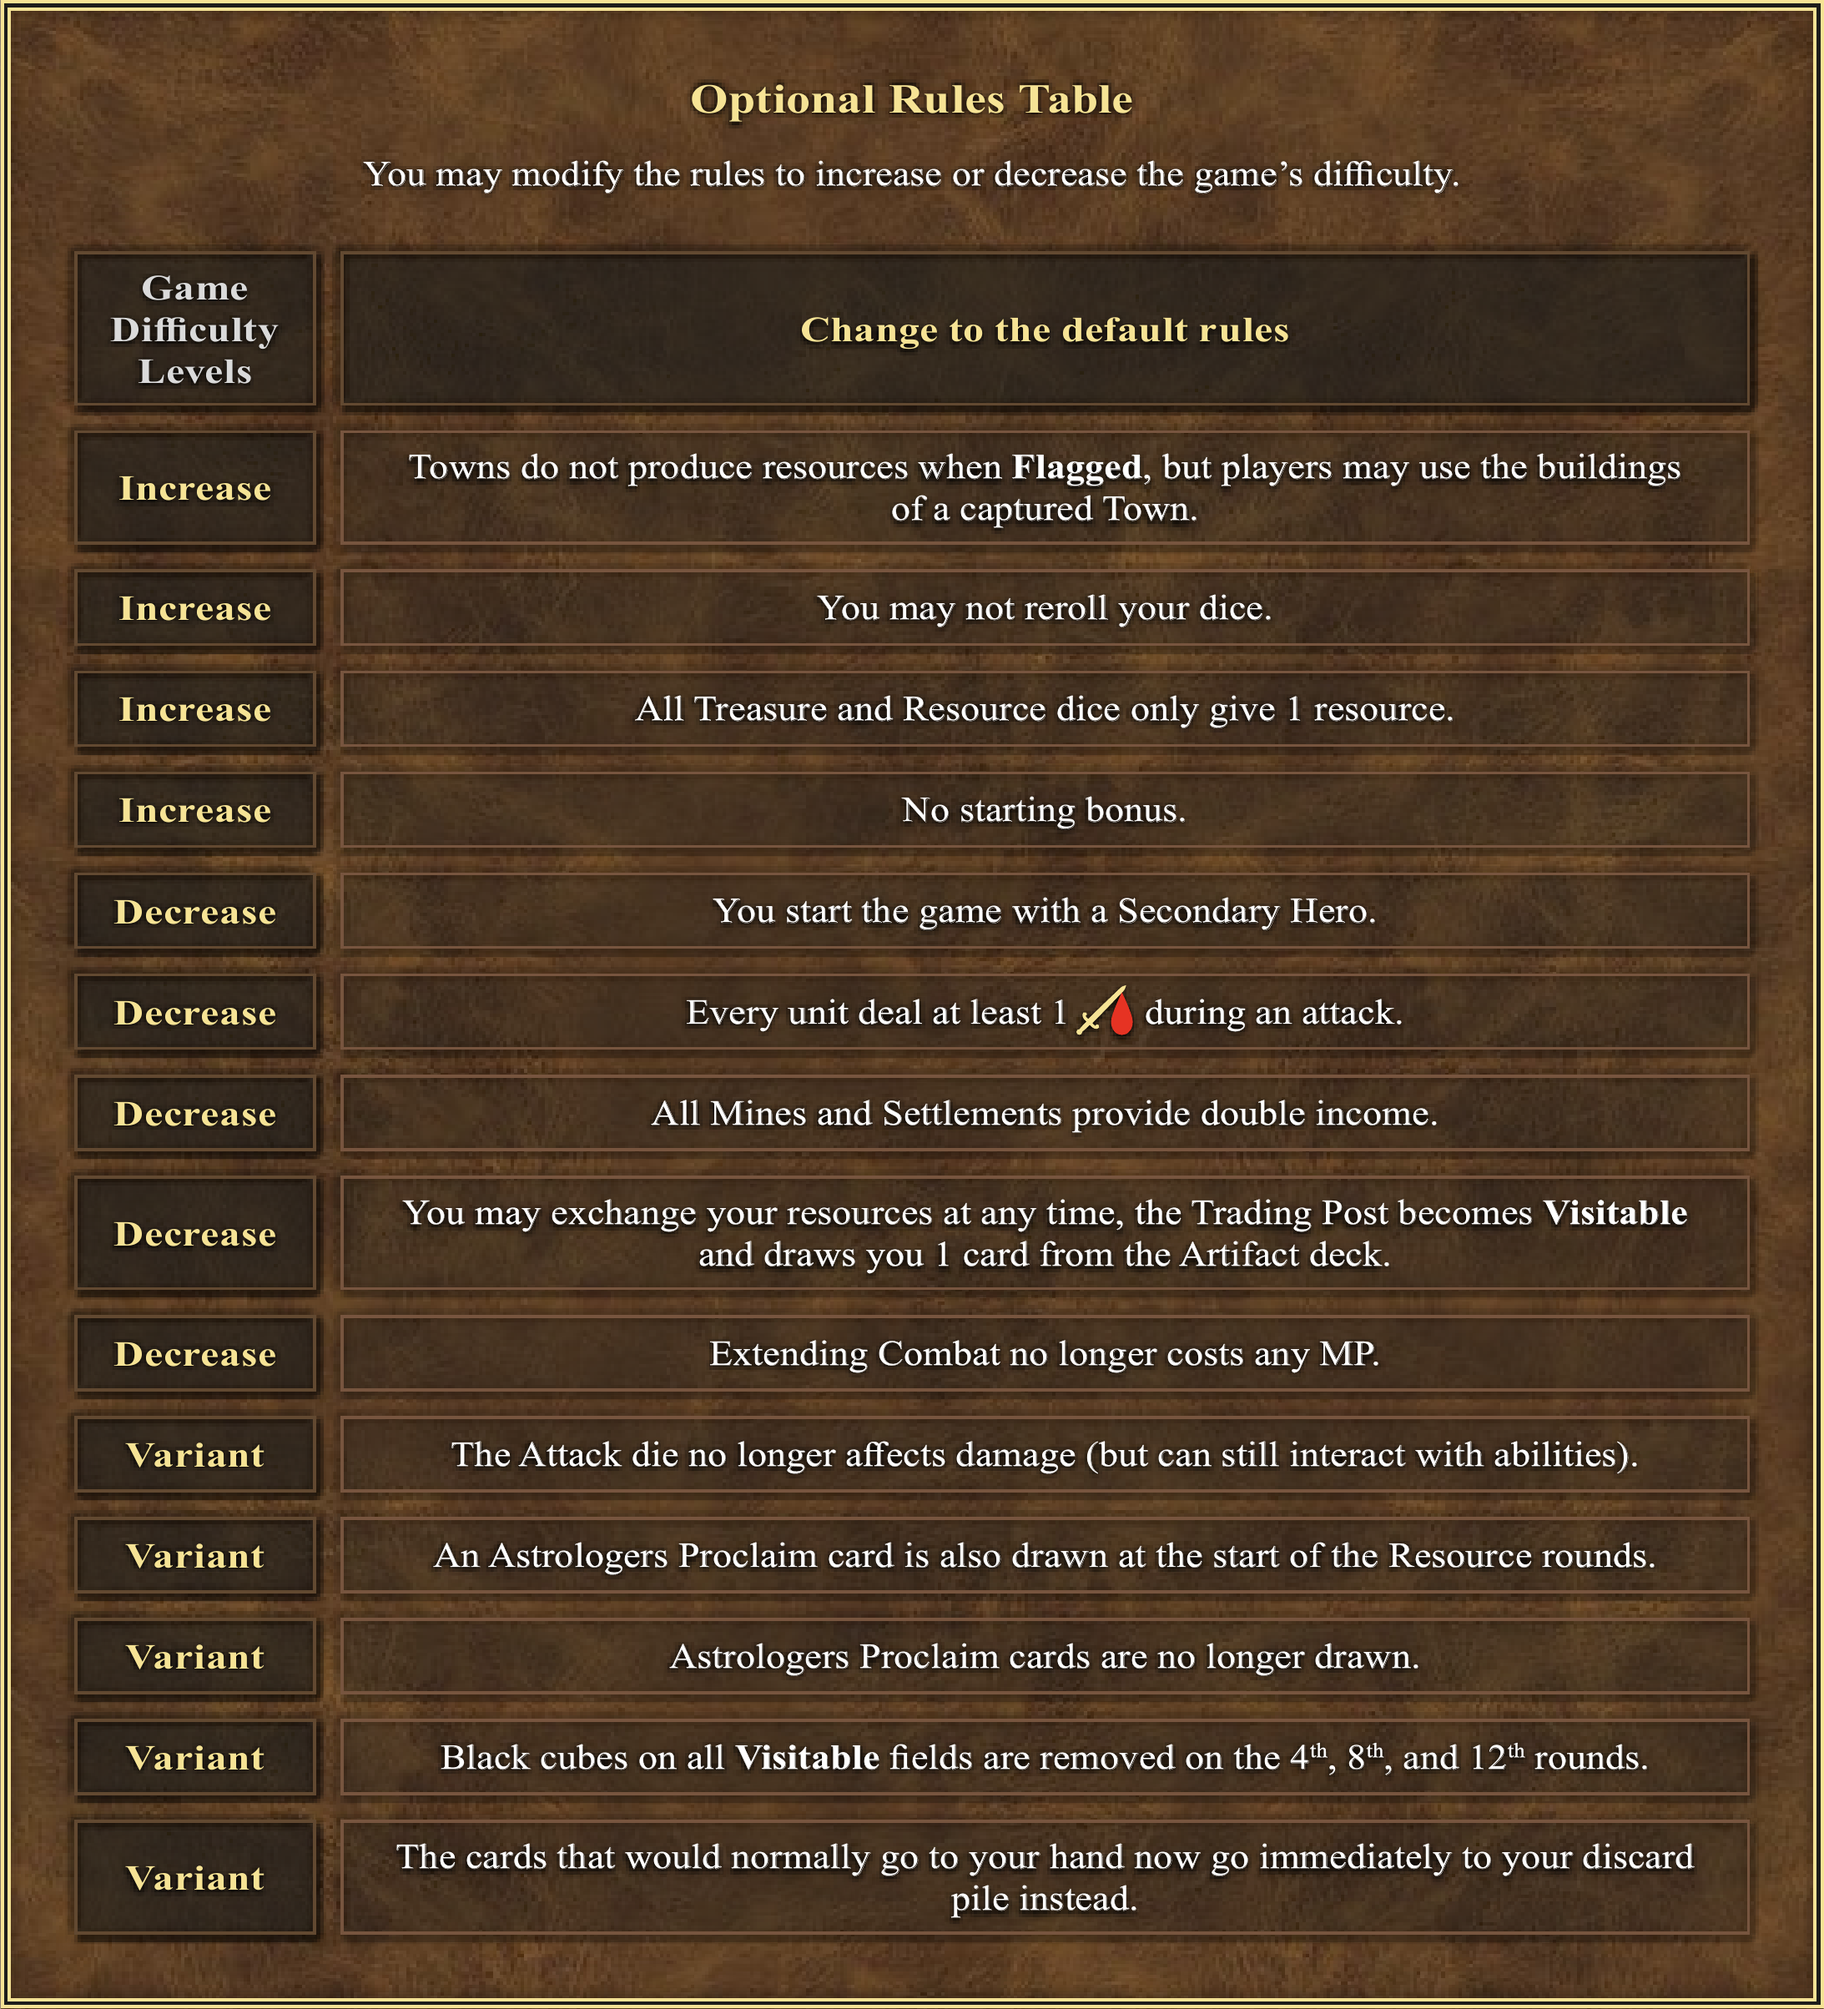
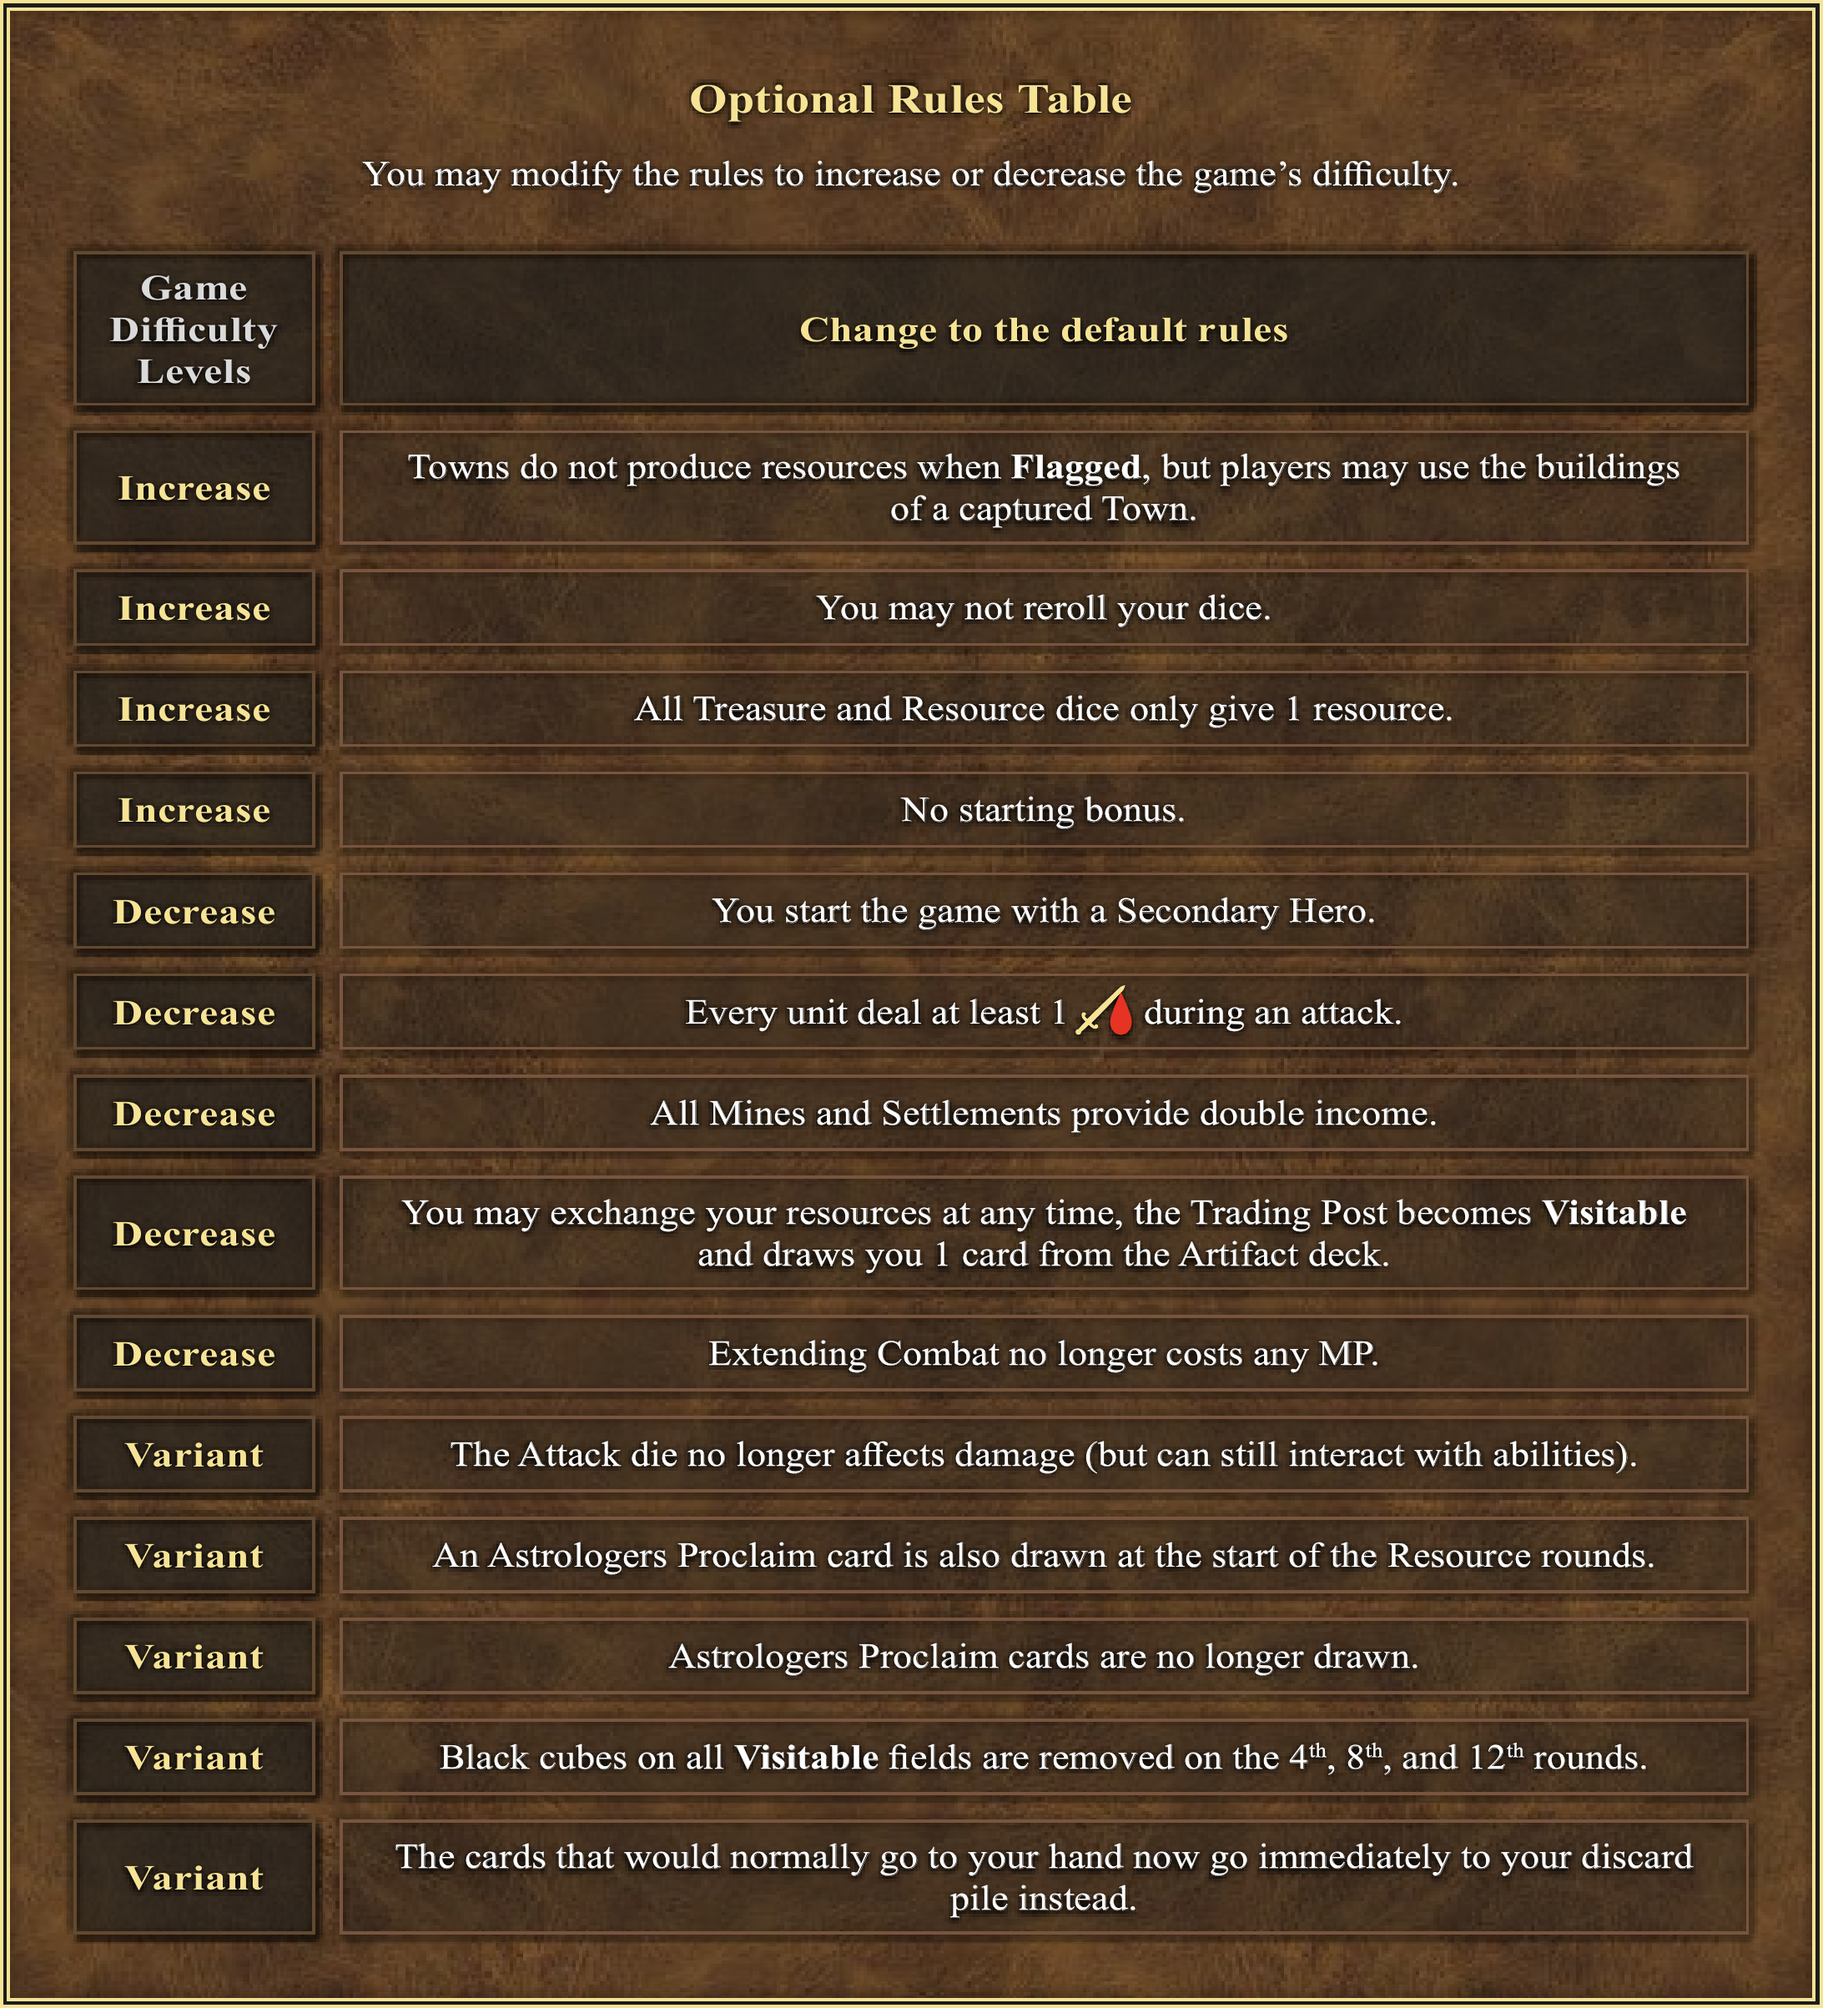
fix frame

diff --git a/sections/other_rules.tex b/sections/other_rules.tex
@@ -55,12 +55,4 @@ The chosen difficulty also determines the number and type of neutral enemies tha
 
 \clearpage
 
-\begin{figure*}[!hb]
-  \centering
-  \includegraphics[width=\linewidth]{\tables/optional_rules.png}
-\end{figure*}
-
-\begin{scaledfigure}[blanker]
-  \centering
-  \includegraphics[width=\linewidth, height=\myspace, keepaspectratio]{\art/magic_arrow.png}
-\end{scaledfigure}
+\framedimage[\linewidth]{\tables/optional_rules.png}
